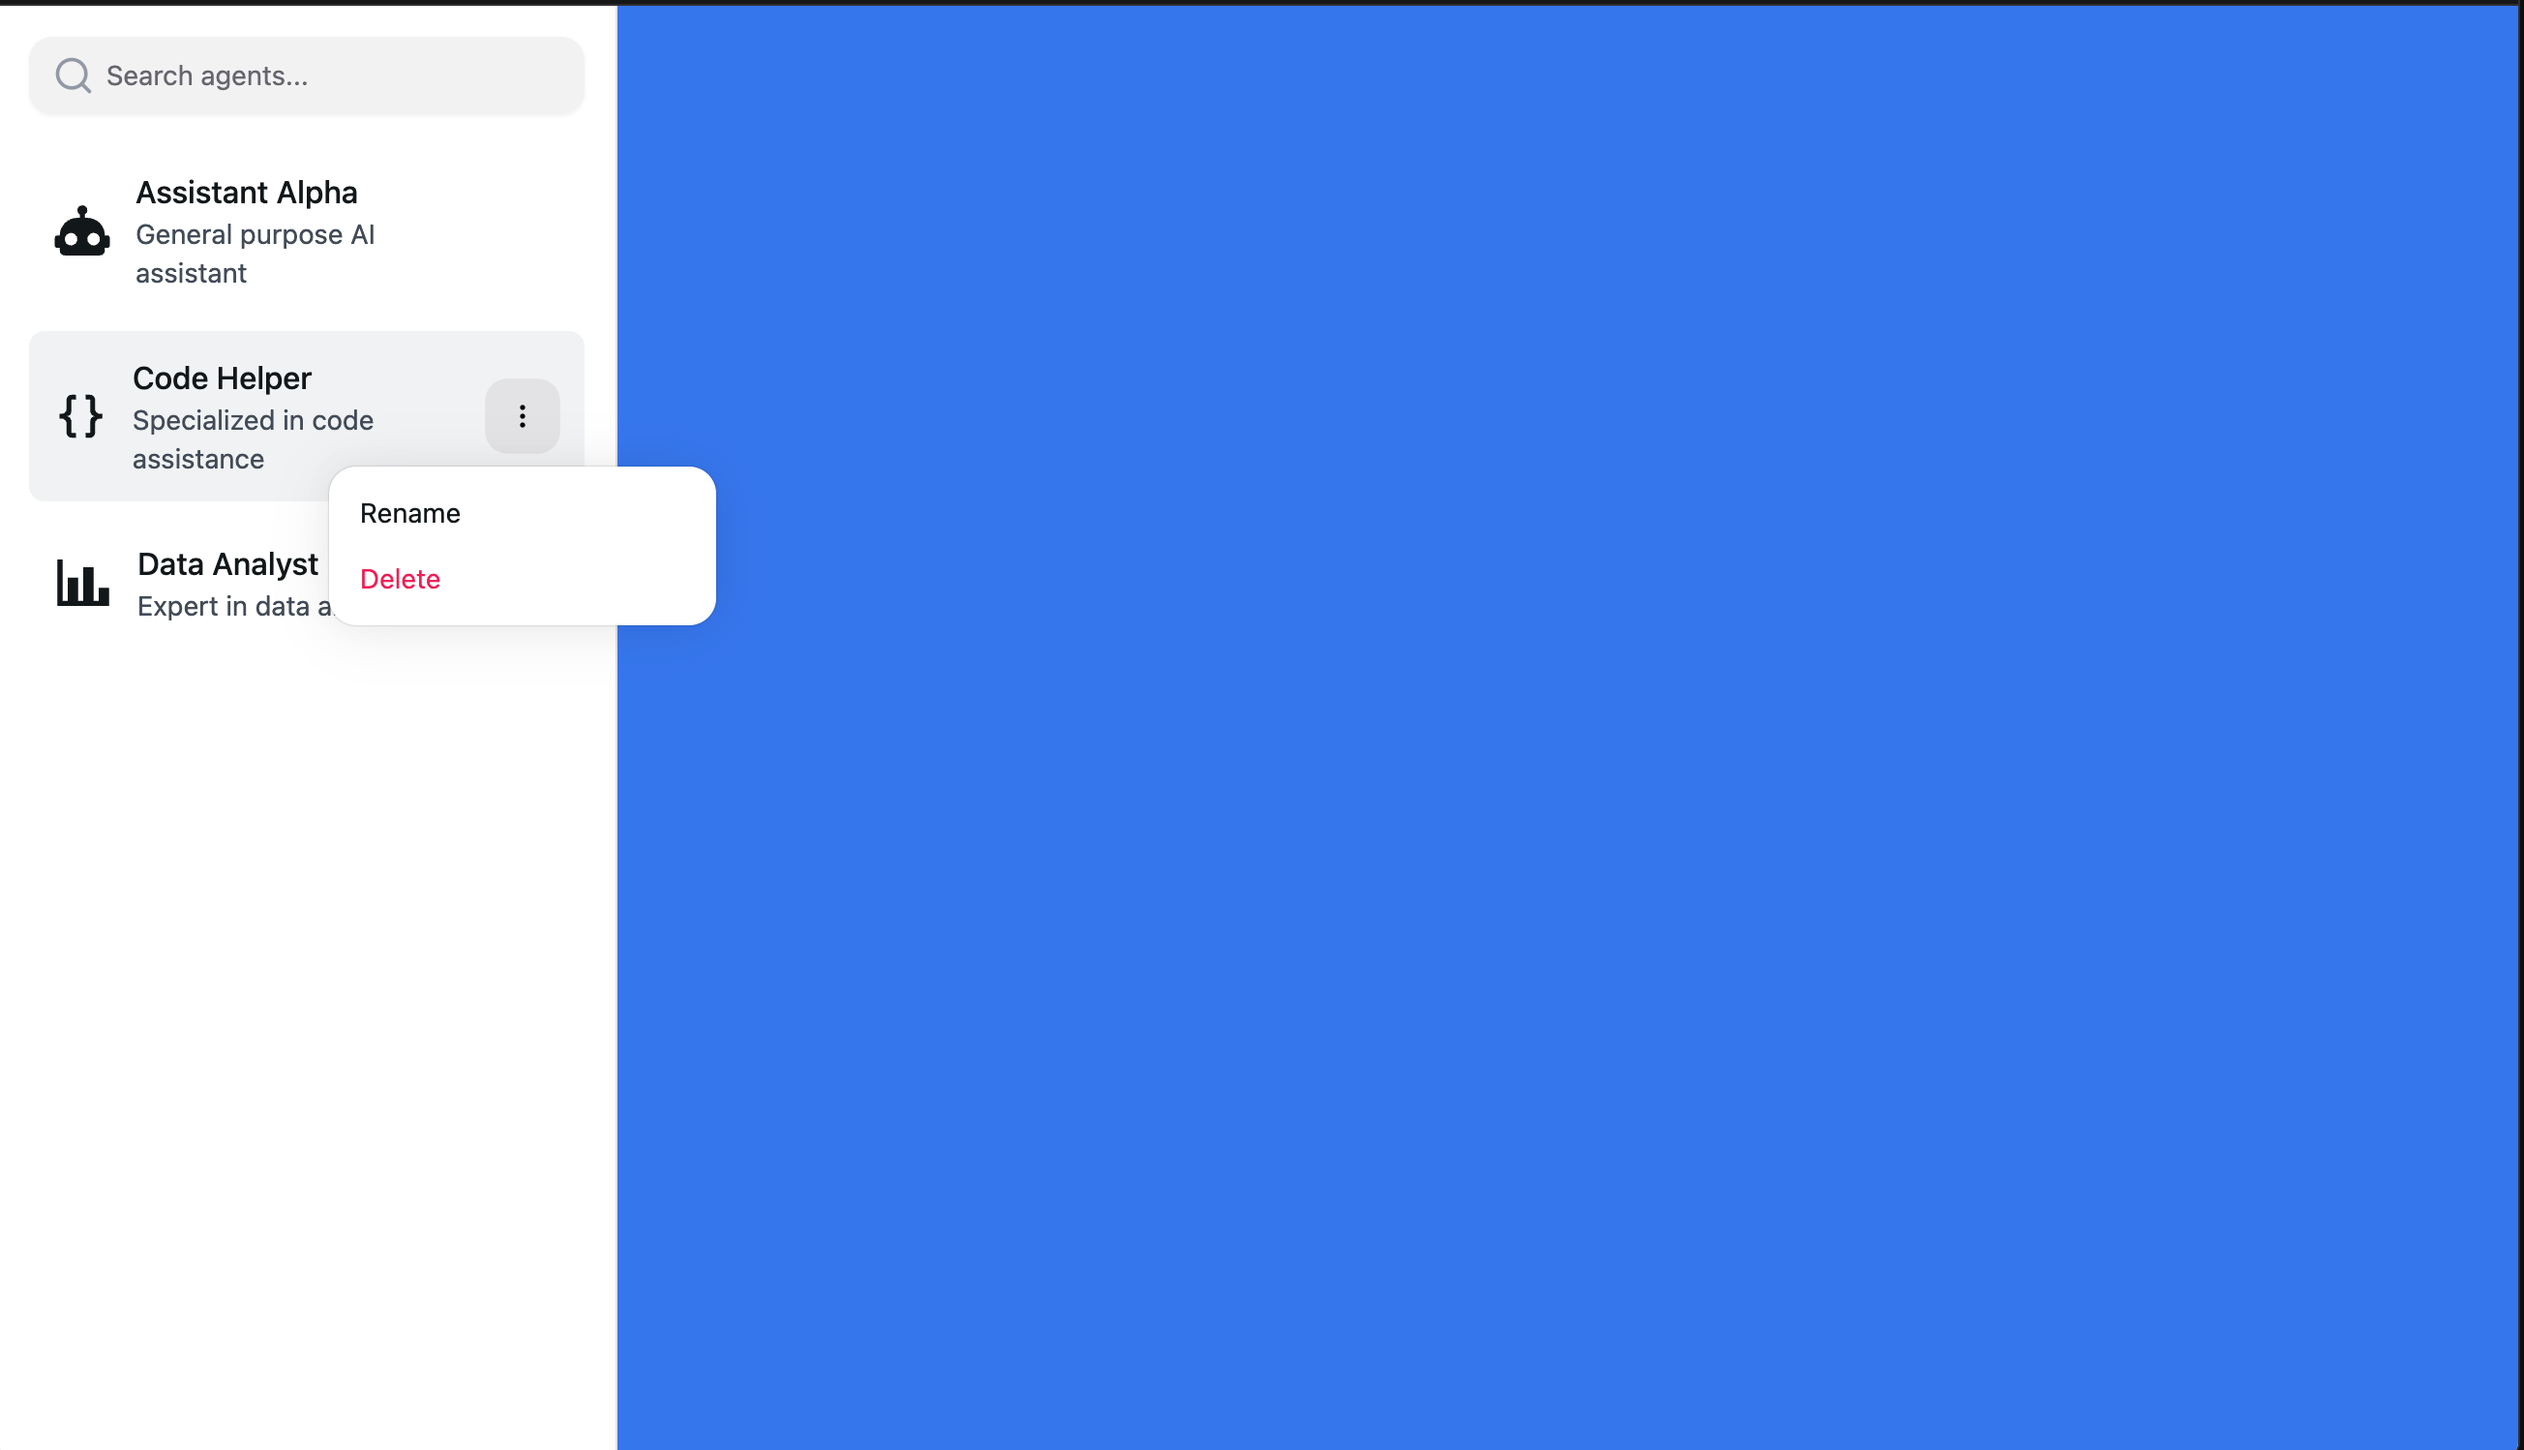
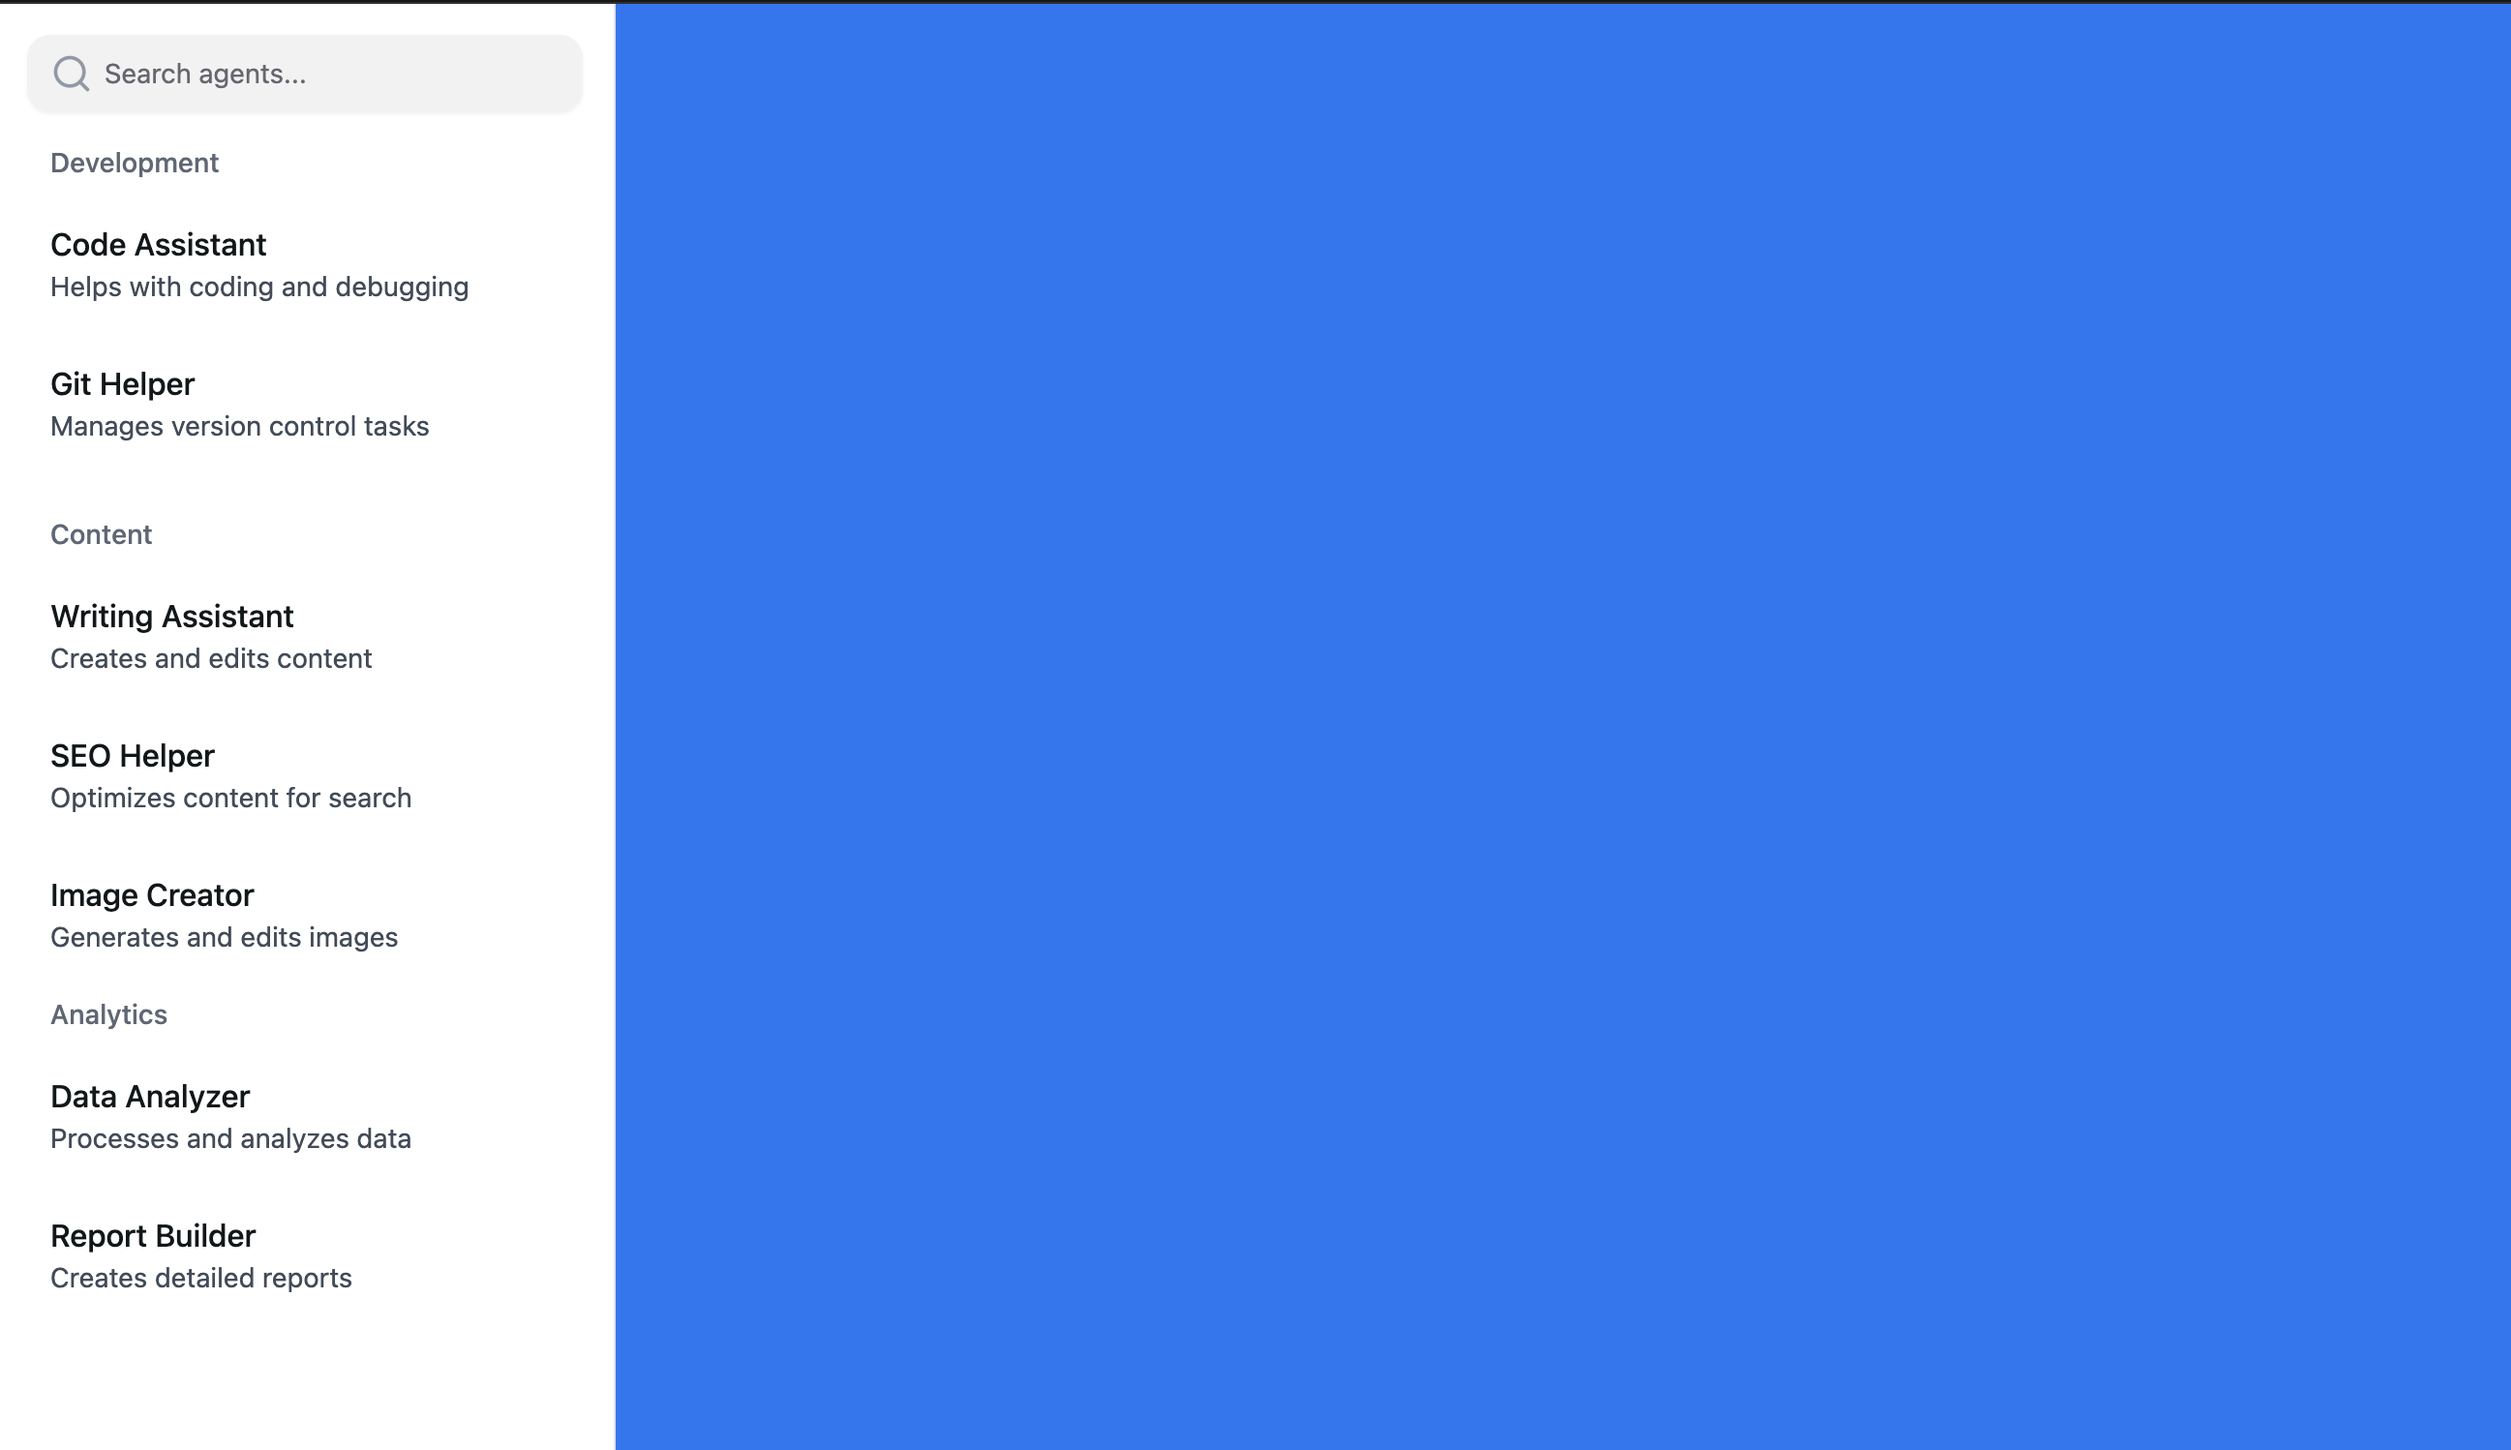
q1 update

diff --git a/question/1.md b/question/1.md
@@ -1,4 +1,4 @@
-# 测试题1: Agent 侧边栏列表功能测试题
+# 测试题1: Agent 嵌套侧边栏列表功能测试题
 
 ## 环境配置要求
 1. 基于提供的项目模板，创建新分支：`feature/agent-sidebar`
@@ -13,7 +13,7 @@
 
 2. **Agent 侧边栏组件**
    - 固定宽度 280px
-   - 实现 Agent 列表展示
+   - 实现 Agent 嵌套列表展示，每个分类下有多个 Agent 项
    - 每个 Agent 项包含:
      - Agent 头像 (使用 Iconify 图标)
      - Agent 名称
@@ -36,6 +36,7 @@
        name: string;
        description: string;
        avatarIcon: string;
+       type: string;
      }
      ```
 
@@ -55,4 +56,4 @@
 需要在 2-3 天内完成并提交代码PR审核。
 
 
-![参考页面](image.png)
+![Agent 嵌套侧边栏列表](image.png)
